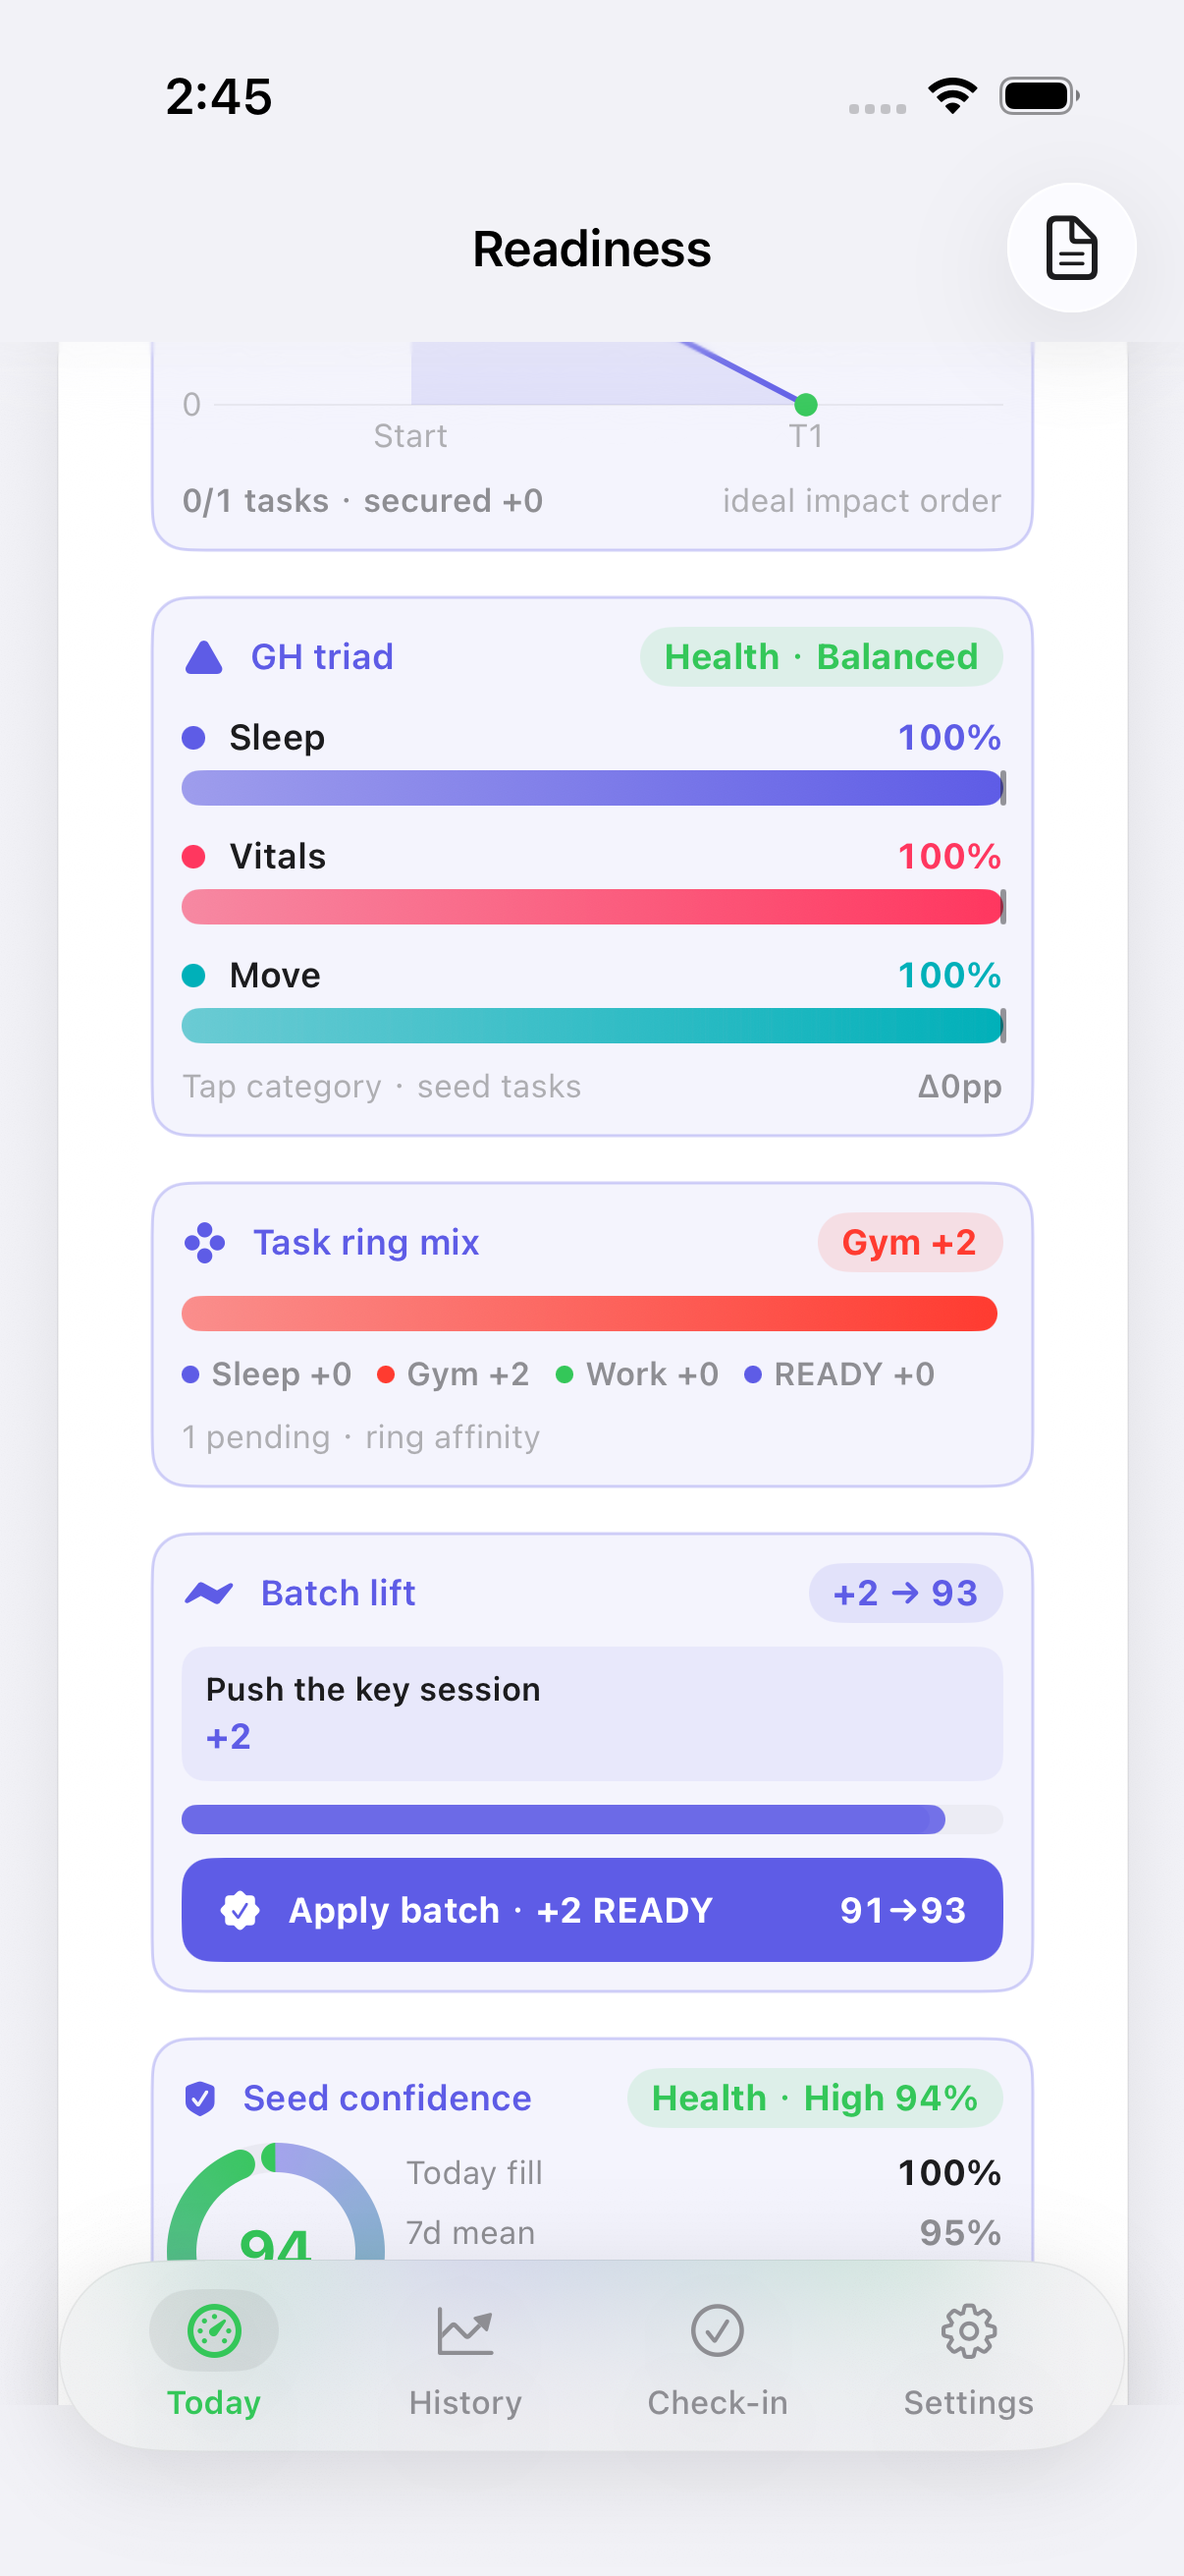
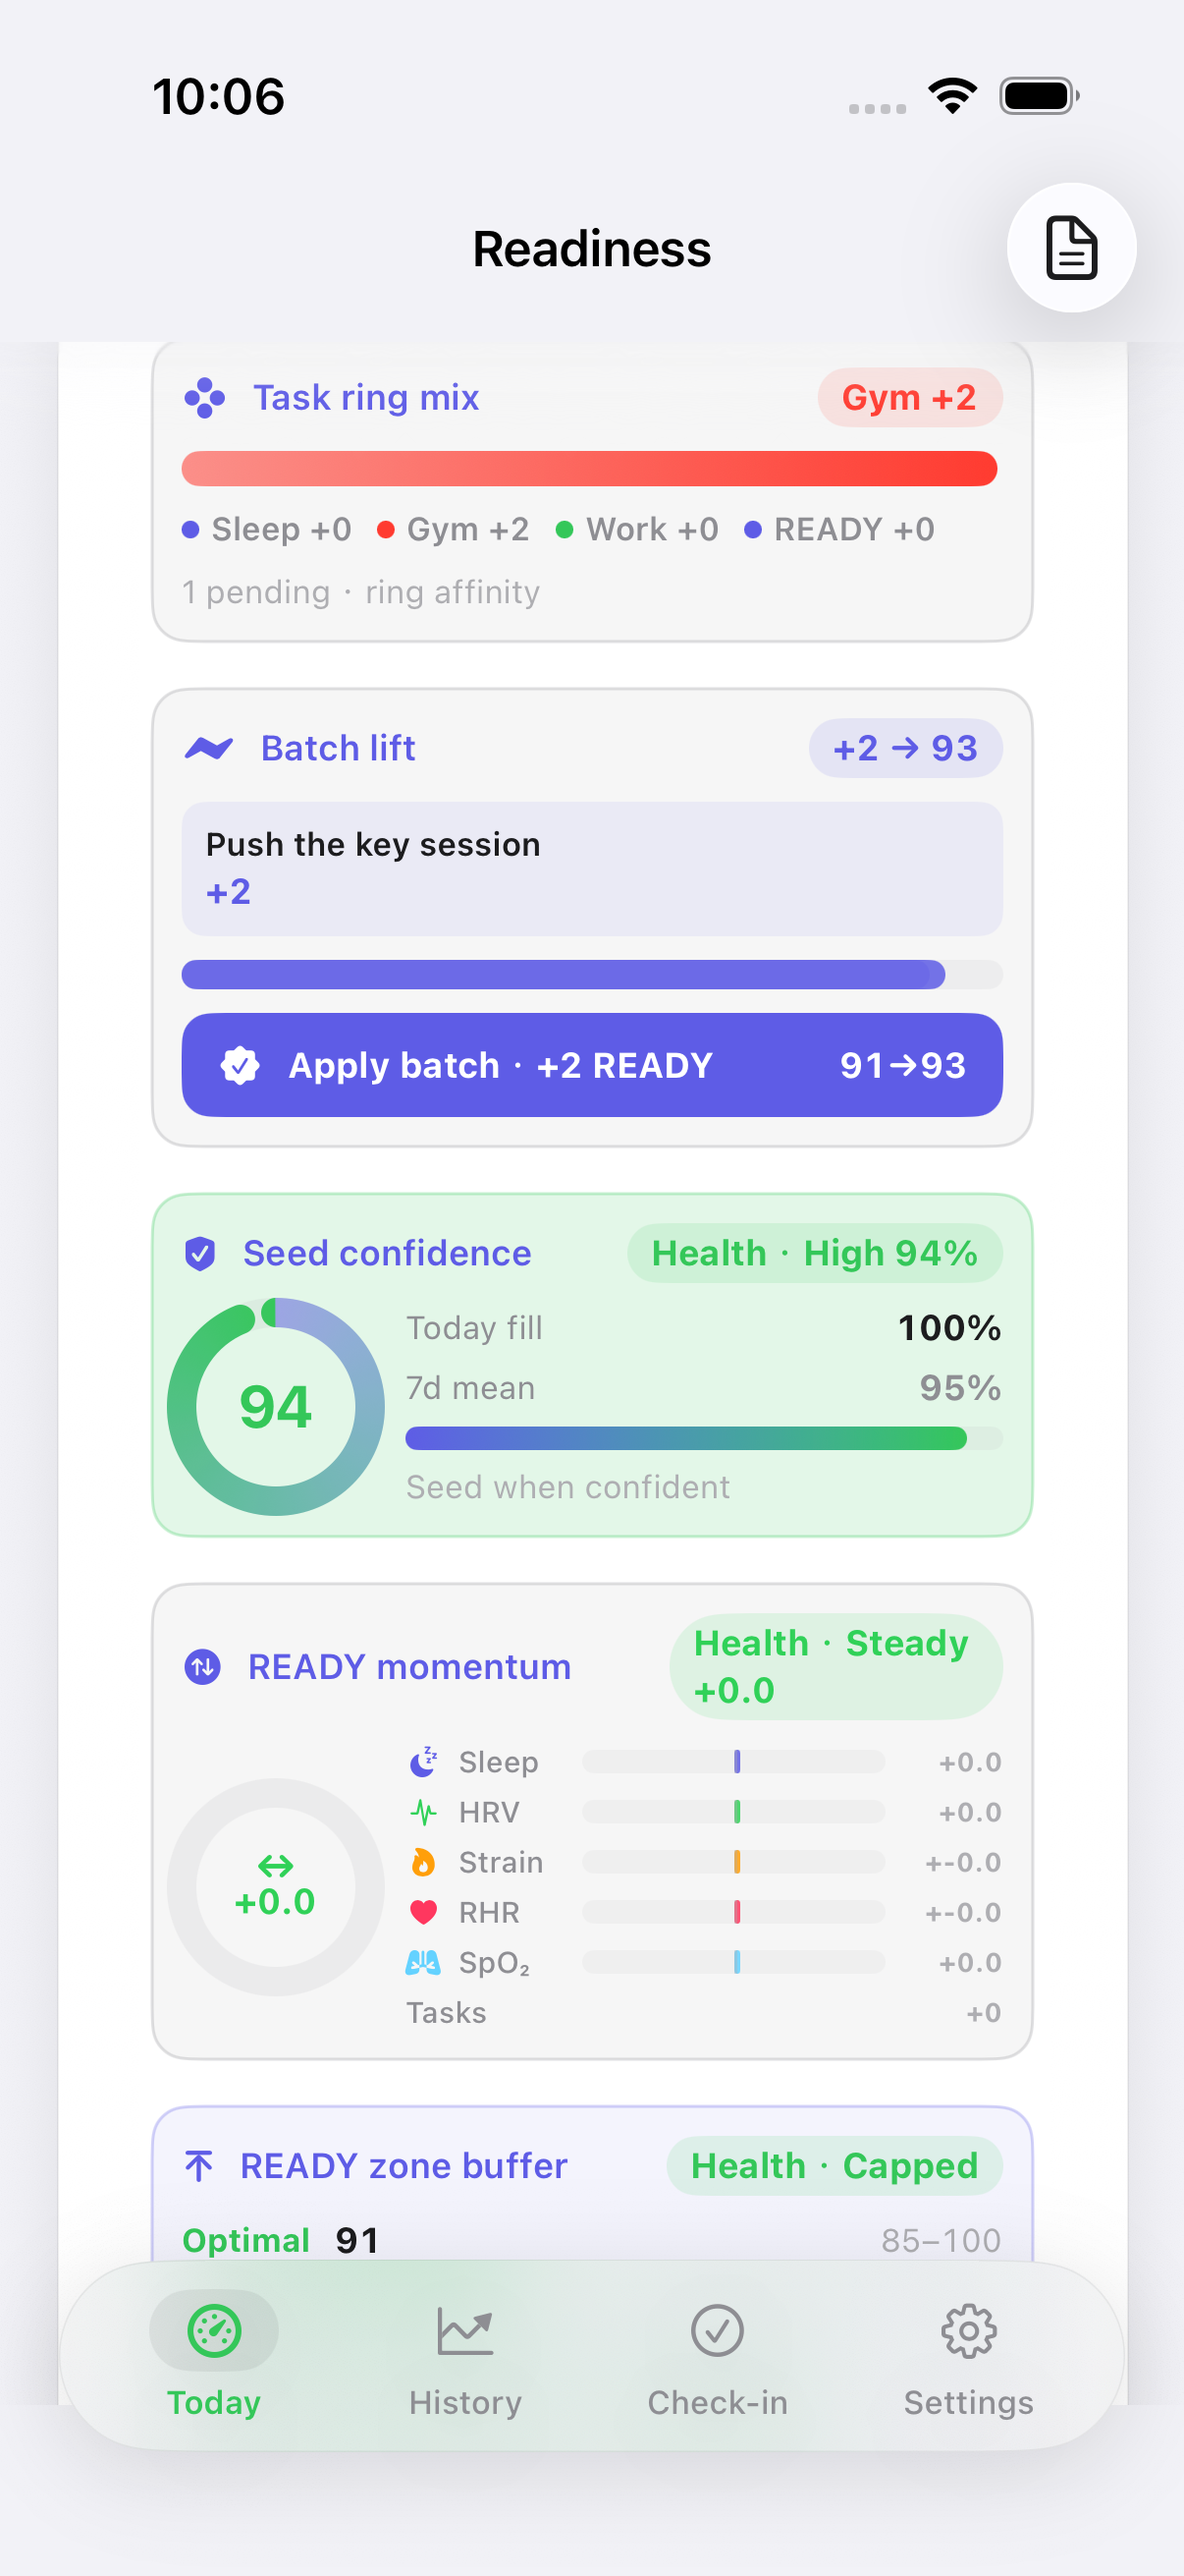
Honest #740: Simulator READY momentum (WHOOP wells) (#770)
Restyle the existing Simulator READY momentum gauge (`sim.load.ready.momentum`, Honest #607) with WHOOP wells.

- Idle (Steady, |momentum| < 2.5): ghost/hairline 8%/28%
- Active (Falling, momentum <= -2.5): 14% fill + 28% hairline (warning)
- Rising (>= 2.5): 14% fill + 28% hairline (optimal); no new SurfaceID; no READY formula change

Proof: `testReadinessLoadSimulatorSurface` 770.289s, 0 failures; `.audit/verify-simulator-ready-momentum.png`
model=deepseek-flash (mechanical pattern-copy of #739 wells)

Changed region(s): [[0.1227, 0.1236, 0.8897, 0.8959], [0.1227, 0.0309, 0.2454, 0.0618], [0.1227, 0.7723, 0.1534, 0.8032]]

diff --git a/ReadinessTracker/Views/WhoopFeatures/ReadinessLoadSimulatorCard.swift b/ReadinessTracker/Views/WhoopFeatures/ReadinessLoadSimulatorCard.swift
@@ -3034,7 +3034,7 @@ struct ReadinessLoadSimulatorCard: View {
     }
 
 
-    /// Honest #607: READY momentum gauge — signed lever thrust + task lift (Fitbit/GH graphics).
+    /// Honest #607 / #740: READY momentum gauge — signed lever thrust + task lift (WHOOP wells; Fitbit/GH graphics).
     @ViewBuilder
     private var readyMomentumGauge: some View {
         let rows: [(SimLeverKind, Double)] = SimLeverKind.allCases.map { lever in
@@ -3057,6 +3057,8 @@ struct ReadinessLoadSimulatorCard: View {
             verb = "Steady"; tone = RTColor.good
         }
         let sourceLabel = source == .fitbit ? "Fitbit/GH" : "Health"
+        let momIsActive = abs(momentum) >= 2.5
+        let wellTone: Color = momIsActive ? tone : RTColor.secondaryText
         let signed = momentum >= 0
             ? String(format: "+%.1f", momentum)
             : String(format: "%.1f", momentum)
@@ -3156,10 +3158,10 @@ struct ReadinessLoadSimulatorCard: View {
             }
         }
         .padding(10)
-        .background(accent.opacity(0.07), in: RoundedRectangle(cornerRadius: 12, style: .continuous))
+        .background(wellTone.opacity(momIsActive ? 0.14 : 0.08), in: RoundedRectangle(cornerRadius: 12, style: .continuous))
         .overlay(
             RoundedRectangle(cornerRadius: 12, style: .continuous)
-                .stroke(accent.opacity(0.28), lineWidth: 1)
+                .stroke(wellTone.opacity(0.28), lineWidth: 1)
         )
         .accessibilityIdentifier(SurfaceID.readinessSimulatorReadyMomentum)
         .accessibilityLabel("READY momentum \(verb) \(signed)")

diff --git a/ReadinessTracker/Design/Theme.swift b/ReadinessTracker/Design/Theme.swift
@@ -404,7 +404,7 @@ enum SurfaceID {
     static let readinessSimulatorTaskRingMix = "sim.load.task.rings"  // Honest #601 / #737
     static let readinessSimulatorBatchLift = "sim.load.tasks.batch.lift"  // Honest #603 / #738
     static let readinessSimulatorSeedConfidence = "sim.load.seed.confidence"  // Honest #605 / #739
-    static let readinessSimulatorReadyMomentum = "sim.load.ready.momentum"  // Honest #607
+    static let readinessSimulatorReadyMomentum = "sim.load.ready.momentum"  // Honest #607 / #740
     static let readinessSimulatorReadyBuffer = "sim.load.ready.buffer"  // Honest #609
     static let readinessSimulatorTaskEfficiency = "sim.load.tasks.efficiency"  // Honest #611
     static let readinessSimulatorReadyClimb = "sim.load.ready.climb"  // Honest #613

diff --git a/ReadinessTrackerUITests/SurfacesUITests.swift b/ReadinessTrackerUITests/SurfacesUITests.swift
@@ -10775,7 +10775,7 @@ final class SurfacesUITests: XCTestCase {
         saveShot("verify-simulator-seed-confidence.png")
 
 
-        // Honest #607: READY momentum gauge
+        // Honest #607 / #740: READY momentum gauge (WHOOP wells)
         let readyMom = app.descendants(matching: .any)["sim.load.ready.momentum"].firstMatch
         XCTAssertTrue(readyMom.waitForExistence(timeout: 5)
                       || app.descendants(matching: .any)["sim.load.seed.confidence"].firstMatch.exists

diff --git a/.audit/decision-log-2026-11-04.md b/.audit/decision-log-2026-11-04.md
@@ -278,3 +278,7 @@
 | 21:48 HKT | #739 Simulator seed confidence | prove | UITest suite green /tmp/RT-DD739 (767.957s, 0 failures; observer 780.643s); model=deepseek-flash |
 | 21:48 HKT | #739 Simulator seed confidence | land | proof PNG + receipt; SID sim.load.seed.confidence; PR squash next; model=deepseek-flash |
 
+| 21:53 HKT | Honest #740 Simulator READY momentum | model=deepseek-flash | restyle existing sim.load.ready.momentum after seed confidence #739; WHOOP ghost/active/optimal wells; mechanical pattern-copy of #739 wells applied locally (no separate model iterate needed) | mid-ship |
+| 21:53 HKT | Honest #740 Simulator READY momentum | prove | started UITest /tmp/RT-DD740; model=deepseek-flash | mid-ship |
+| 22:13 HKT | #740 Simulator READY momentum | prove | UITest suite green /tmp/RT-DD740 (770.289s, 0 failures; observer 782.993s); model=deepseek-flash |
+| 22:13 HKT | #740 Simulator READY momentum | land | proof PNG + receipt; SID sim.load.ready.momentum; PR squash next; model=deepseek-flash |

diff --git a/.audit/features/readiness-simulator-ready-momentum.md b/.audit/features/readiness-simulator-ready-momentum.md
@@ -1,5 +1,6 @@
-# Honest #607: Simulator READY momentum gauge
+# Honest #607 / #740: Simulator READY momentum gauge
 
-Signed lever thrust + task lift dial with Fitbit/GH source.
-SurfaceID: `sim.load.ready.momentum`
+Signed lever thrust + task lift dial with Fitbit/GH source (WHOOP wells).
+Idle (Steady, |momentum| < 2.5) = ghost/hairline 8%/28%; active (Falling, momentum <= -2.5) = 14% fill + 28% hairline (warning); Rising (>= 2.5) = 14% fill + 28% hairline (optimal).
+SurfaceID: `sim.load.ready.momentum` (existing; no new SID)
 Proof: `.audit/verify-simulator-ready-momentum.png`

diff --git a/.cursor/skills/verify-readiness-tracker/features/readiness-simulator-ready-momentum.md b/.cursor/skills/verify-readiness-tracker/features/readiness-simulator-ready-momentum.md
@@ -1,5 +1,6 @@
-# Honest #607: Simulator READY momentum gauge
+# Honest #607 / #740: Simulator READY momentum gauge (WHOOP wells)
 
 Signed lever thrust + task lift dial with Fitbit/GH source.
+Idle (Steady, |momentum| < 2.5) = ghost/hairline 8%/28%; active (Falling, momentum <= -2.5) = 14% fill + 28% hairline (warning); Rising (>= 2.5) = 14% fill + 28% hairline (optimal).
 SurfaceID: `sim.load.ready.momentum`
 Proof: `.audit/verify-simulator-ready-momentum.png`

diff --git a/.audit/readiness-simulator-ready-momentum.md b/.audit/readiness-simulator-ready-momentum.md
@@ -1,5 +1,6 @@
-# Honest #607: Simulator READY momentum
+# Honest #607 / #740: Simulator READY momentum (WHOOP wells)
 
 Signed lever thrust + task lift → Rising/Steady/Falling.
+Idle (Steady, |momentum| < 2.5) = ghost/hairline 8%/28%; active (Falling, momentum <= -2.5) = 14% fill + 28% hairline (warning); Rising (>= 2.5) = 14% fill + 28% hairline (optimal).
 SurfaceID: `sim.load.ready.momentum`
 Proof: `.audit/verify-simulator-ready-momentum.png`
